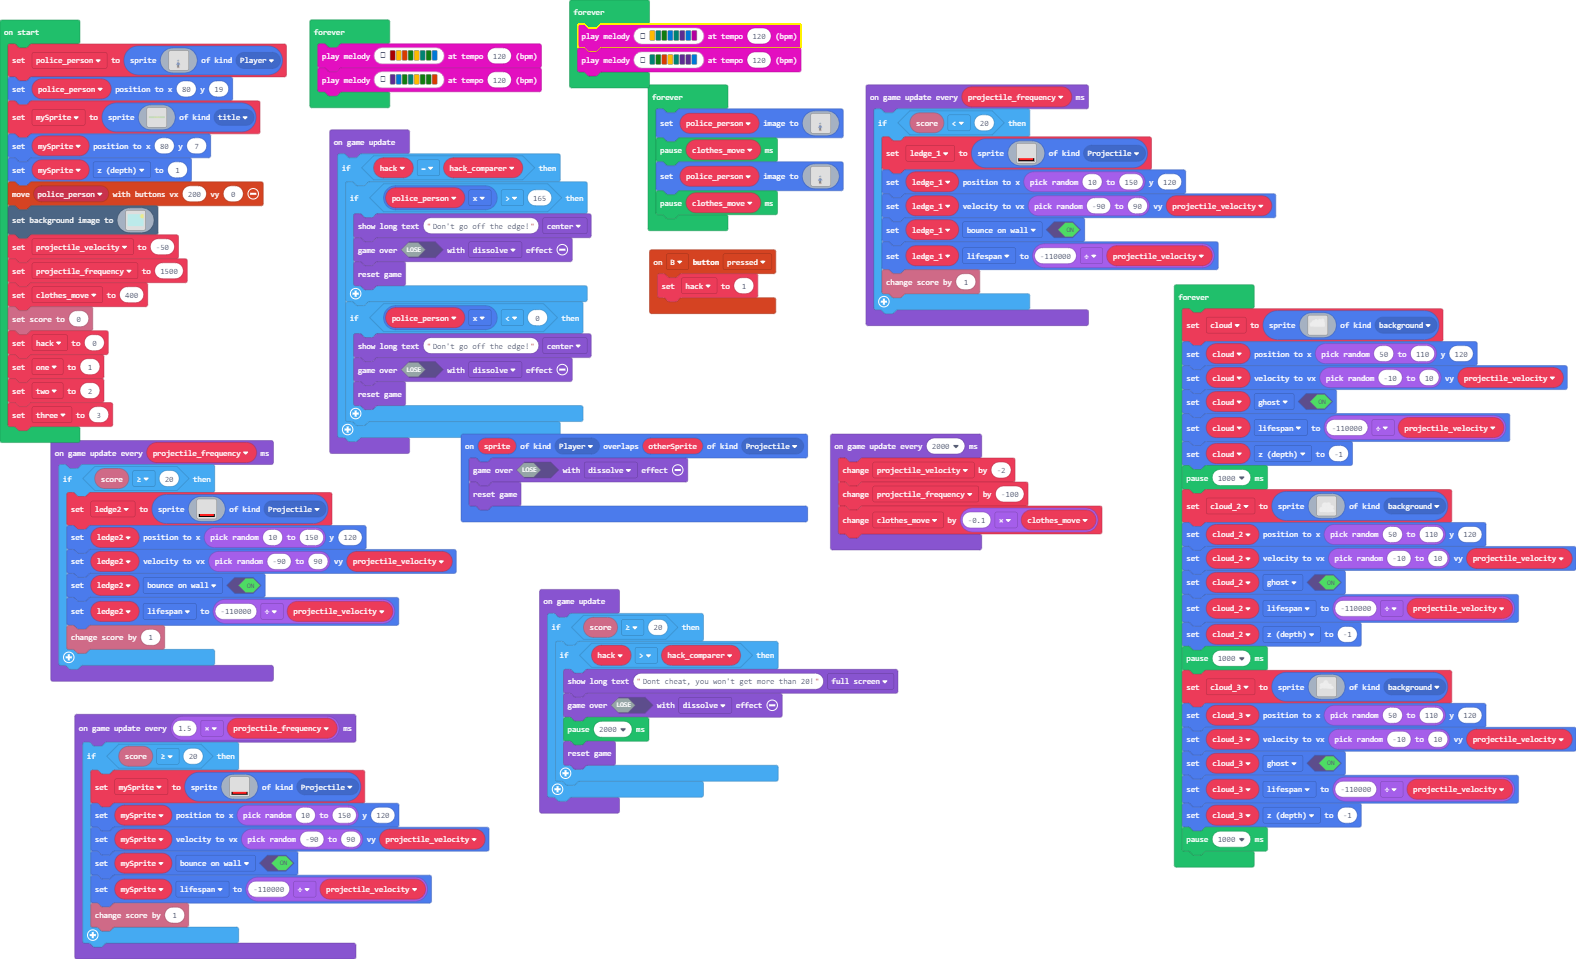
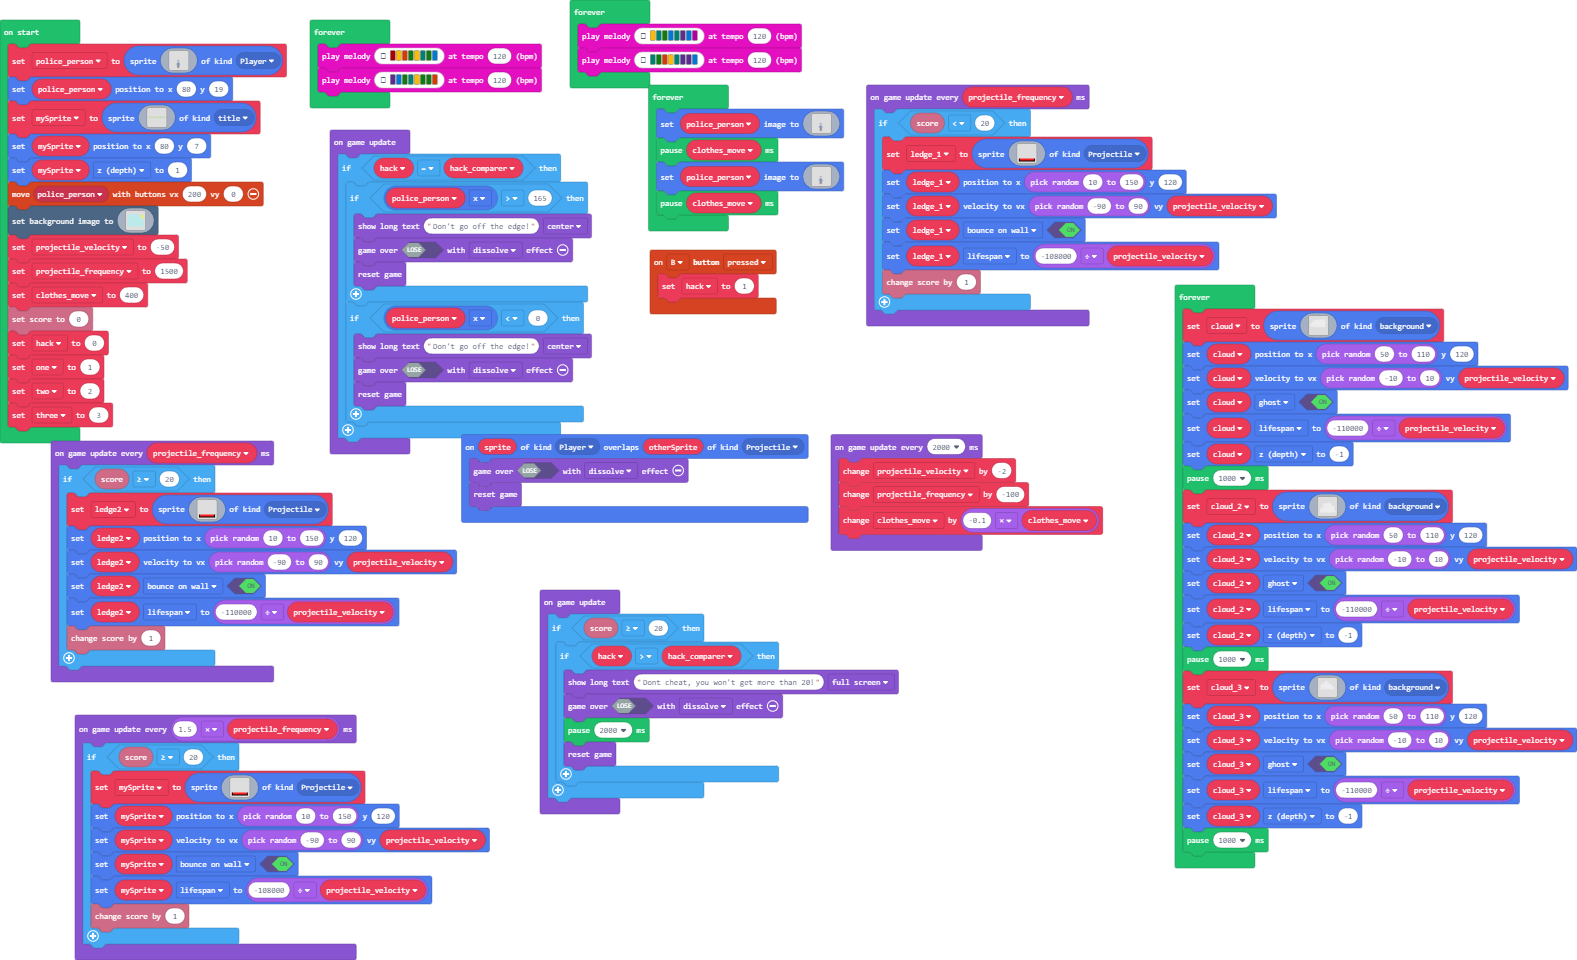
fixed one annoying bug

diff --git a/main.ts b/main.ts
@@ -420,7 +420,7 @@ f f f f f f f f f f f f f f f f
         mySprite.setPosition(Math.randomRange(10, 150), 120)
         mySprite.setVelocity(Math.randomRange(-90, 90), projectile_velocity)
         mySprite.setFlag(SpriteFlag.BounceOnWall, true)
-        mySprite.lifespan = -110000 / projectile_velocity
+        mySprite.lifespan = -108000 / projectile_velocity
         info.changeScoreBy(1)
     }
 })
@@ -447,7 +447,7 @@ f f f f f f f f f f f f f f f f
         ledge_1.setPosition(Math.randomRange(10, 150), 120)
         ledge_1.setVelocity(Math.randomRange(-90, 90), projectile_velocity)
         ledge_1.setFlag(SpriteFlag.BounceOnWall, true)
-        ledge_1.lifespan = -110000 / projectile_velocity
+        ledge_1.lifespan = -108000 / projectile_velocity
         info.changeScoreBy(1)
     }
 })
